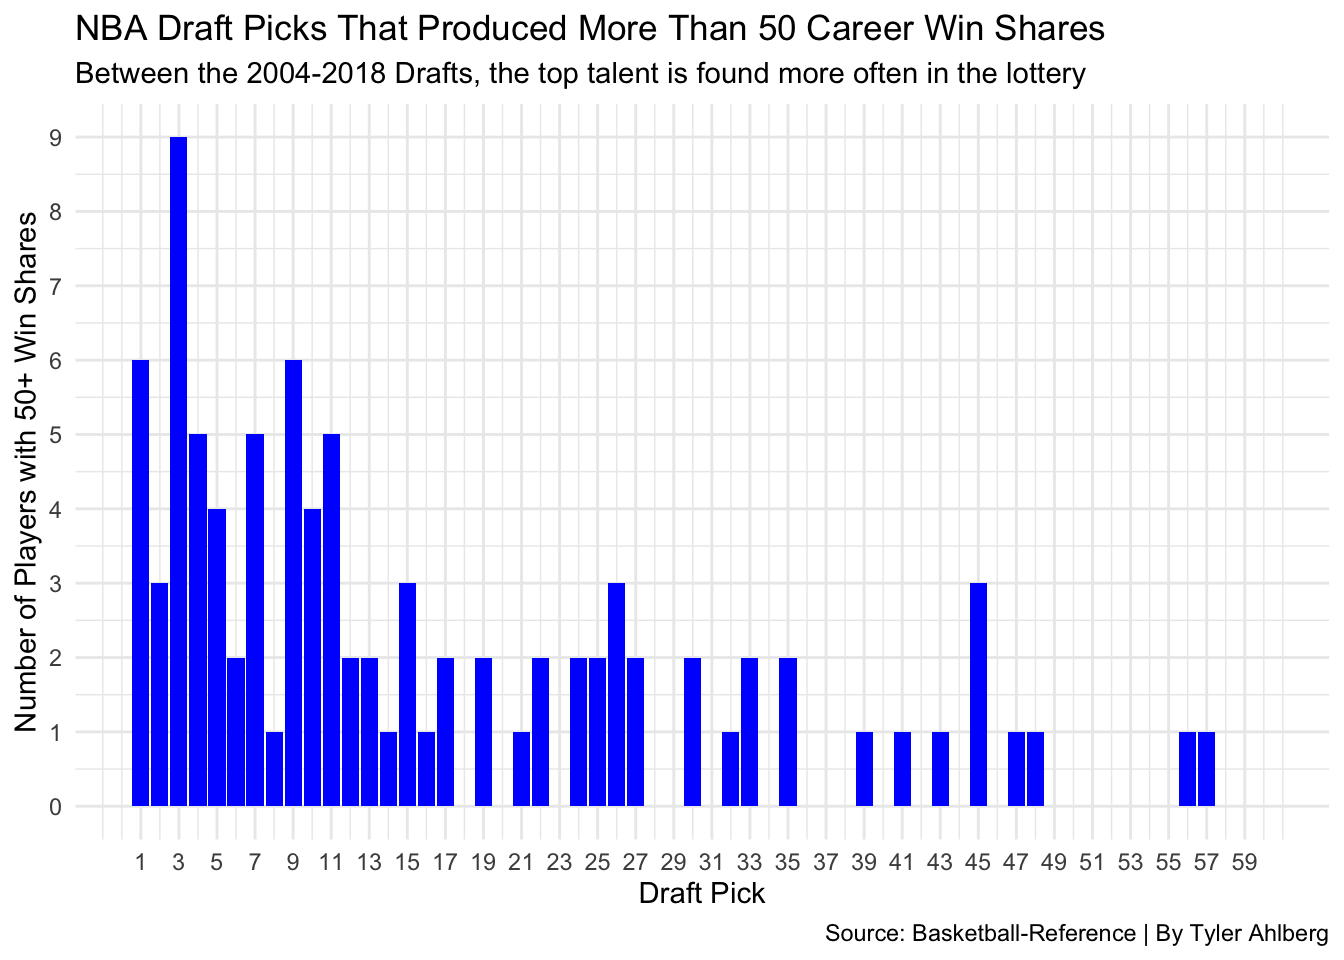
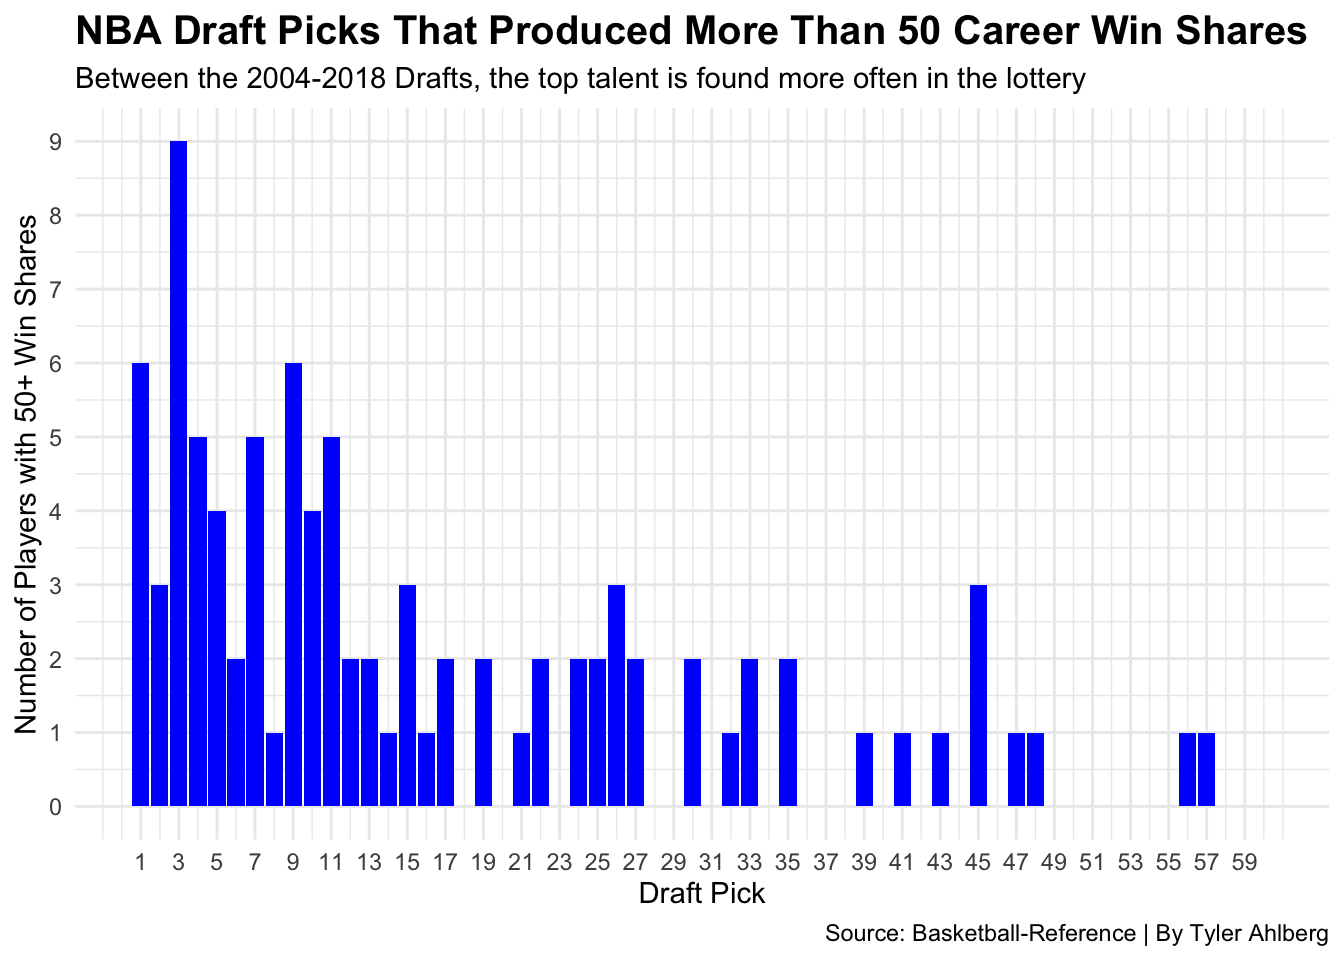
WORKINGUHHH

diff --git a/posts/index.html b/posts/index.html
@@ -217,7 +217,9 @@ pre > code.sourceCode > span > a:first-child::before { text-decoration: underlin
 <span id="cb1-19"><a href="#cb1-19" aria-hidden="true" tabindex="-1"></a>  ) <span class="sc">+</span></span>
 <span id="cb1-20"><a href="#cb1-20" aria-hidden="true" tabindex="-1"></a>  <span class="fu">scale_x_continuous</span>(<span class="at">breaks =</span> <span class="fu">seq</span>(<span class="dv">1</span>, <span class="dv">60</span>, <span class="at">by=</span><span class="dv">2</span>)) <span class="sc">+</span></span>
 <span id="cb1-21"><a href="#cb1-21" aria-hidden="true" tabindex="-1"></a>  <span class="fu">scale_y_continuous</span>(<span class="at">breaks =</span> <span class="fu">seq</span>(<span class="dv">0</span>, <span class="dv">15</span>, <span class="at">by =</span> <span class="dv">1</span>))<span class="sc">+</span></span>
-<span id="cb1-22"><a href="#cb1-22" aria-hidden="true" tabindex="-1"></a>  <span class="fu">theme_minimal</span>()</span></code></pre></div><button title="Copy to Clipboard" class="code-copy-button"><i class="bi"></i></button></div>
+<span id="cb1-22"><a href="#cb1-22" aria-hidden="true" tabindex="-1"></a>  <span class="fu">theme_minimal</span>()<span class="sc">+</span></span>
+<span id="cb1-23"><a href="#cb1-23" aria-hidden="true" tabindex="-1"></a>  <span class="fu">theme</span>(<span class="at">plot.title =</span> <span class="fu">element_text</span>(<span class="at">size =</span> <span class="dv">15</span>, <span class="at">face =</span> <span class="st">"bold"</span>)</span>
+<span id="cb1-24"><a href="#cb1-24" aria-hidden="true" tabindex="-1"></a>    )</span></code></pre></div><button title="Copy to Clipboard" class="code-copy-button"><i class="bi"></i></button></div>
 </details>
 <div class="cell-output-display">
 <div>
@@ -252,7 +254,9 @@ pre > code.sourceCode > span > a:first-child::before { text-decoration: underlin
 <span id="cb2-18"><a href="#cb2-18" aria-hidden="true" tabindex="-1"></a>    <span class="at">subtitle=</span><span class="st">"The pre-reform seasons saw much higher picks than in post-reform years"</span>,</span>
 <span id="cb2-19"><a href="#cb2-19" aria-hidden="true" tabindex="-1"></a>    <span class="at">caption=</span><span class="st">"Source: tankathon, NBA Draft Results | By Tyler Ahlberg"</span>) <span class="sc">+</span></span>
 <span id="cb2-20"><a href="#cb2-20" aria-hidden="true" tabindex="-1"></a>  <span class="fu">scale_x_continuous</span>(<span class="at">breaks=</span><span class="fu">seq</span>(<span class="dv">2011</span>, <span class="dv">2026</span>, <span class="at">by=</span><span class="dv">1</span>)) <span class="sc">+</span></span>
-<span id="cb2-21"><a href="#cb2-21" aria-hidden="true" tabindex="-1"></a>  <span class="fu">theme_minimal</span>()</span></code></pre></div><button title="Copy to Clipboard" class="code-copy-button"><i class="bi"></i></button></div>
+<span id="cb2-21"><a href="#cb2-21" aria-hidden="true" tabindex="-1"></a>  <span class="fu">theme_minimal</span>()<span class="sc">+</span></span>
+<span id="cb2-22"><a href="#cb2-22" aria-hidden="true" tabindex="-1"></a>  <span class="fu">theme</span>(<span class="at">plot.title =</span> <span class="fu">element_text</span>(<span class="at">size =</span> <span class="dv">15</span>, <span class="at">face =</span> <span class="st">"bold"</span>)</span>
+<span id="cb2-23"><a href="#cb2-23" aria-hidden="true" tabindex="-1"></a>    )</span></code></pre></div><button title="Copy to Clipboard" class="code-copy-button"><i class="bi"></i></button></div>
 </details>
 <div class="cell-output-display">
 <div>
@@ -300,7 +304,9 @@ pre > code.sourceCode > span > a:first-child::before { text-decoration: underlin
 <span id="cb3-30"><a href="#cb3-30" aria-hidden="true" tabindex="-1"></a>  <span class="fu">scale_y_continuous</span>(</span>
 <span id="cb3-31"><a href="#cb3-31" aria-hidden="true" tabindex="-1"></a>  <span class="at">breaks=</span><span class="fu">seq</span>(<span class="dv">0</span>, <span class="dv">16</span>, <span class="at">by=</span><span class="dv">2</span>),</span>
 <span id="cb3-32"><a href="#cb3-32" aria-hidden="true" tabindex="-1"></a>  <span class="at">limits=</span><span class="fu">c</span>(<span class="dv">0</span>, <span class="dv">16</span>))<span class="sc">+</span></span>
-<span id="cb3-33"><a href="#cb3-33" aria-hidden="true" tabindex="-1"></a>  <span class="fu">theme_minimal</span>()</span></code></pre></div><button title="Copy to Clipboard" class="code-copy-button"><i class="bi"></i></button></div>
+<span id="cb3-33"><a href="#cb3-33" aria-hidden="true" tabindex="-1"></a>  <span class="fu">theme_minimal</span>()<span class="sc">+</span></span>
+<span id="cb3-34"><a href="#cb3-34" aria-hidden="true" tabindex="-1"></a>  <span class="fu">theme</span>(<span class="at">plot.title =</span> <span class="fu">element_text</span>(<span class="at">size =</span> <span class="dv">20</span>, <span class="at">face =</span> <span class="st">"bold"</span>)</span>
+<span id="cb3-35"><a href="#cb3-35" aria-hidden="true" tabindex="-1"></a>    ) </span></code></pre></div><button title="Copy to Clipboard" class="code-copy-button"><i class="bi"></i></button></div>
 </details>
 <div class="cell-output-display">
 <div>

diff --git a/index.html b/index.html
@@ -233,7 +233,7 @@ Harlow Malloc
 </a>
 </div>
 </div>
-<div class="quarto-post image-right" data-index="1" data-categories="TkJBJTJDTkJBX0RyYWZ0JTJDVGFua2luZw==" data-listing-date-sort="1793599200000" data-listing-file-modified-sort="1794598285943" data-listing-date-modified-sort="NaN" data-listing-reading-time-sort="7" data-listing-word-count-sort="1270">
+<div class="quarto-post image-right" data-index="1" data-categories="TkJBJTJDTkJBX0RyYWZ0JTJDVGFua2luZw==" data-listing-date-sort="1793599200000" data-listing-file-modified-sort="1794598845400" data-listing-date-modified-sort="NaN" data-listing-reading-time-sort="7" data-listing-word-count-sort="1310">
 <div class="thumbnail"><a href="./posts/index.html" class="no-external-icon">
 
 <img loading="lazy" src="./posts/image.png" class="thumbnail-image">
